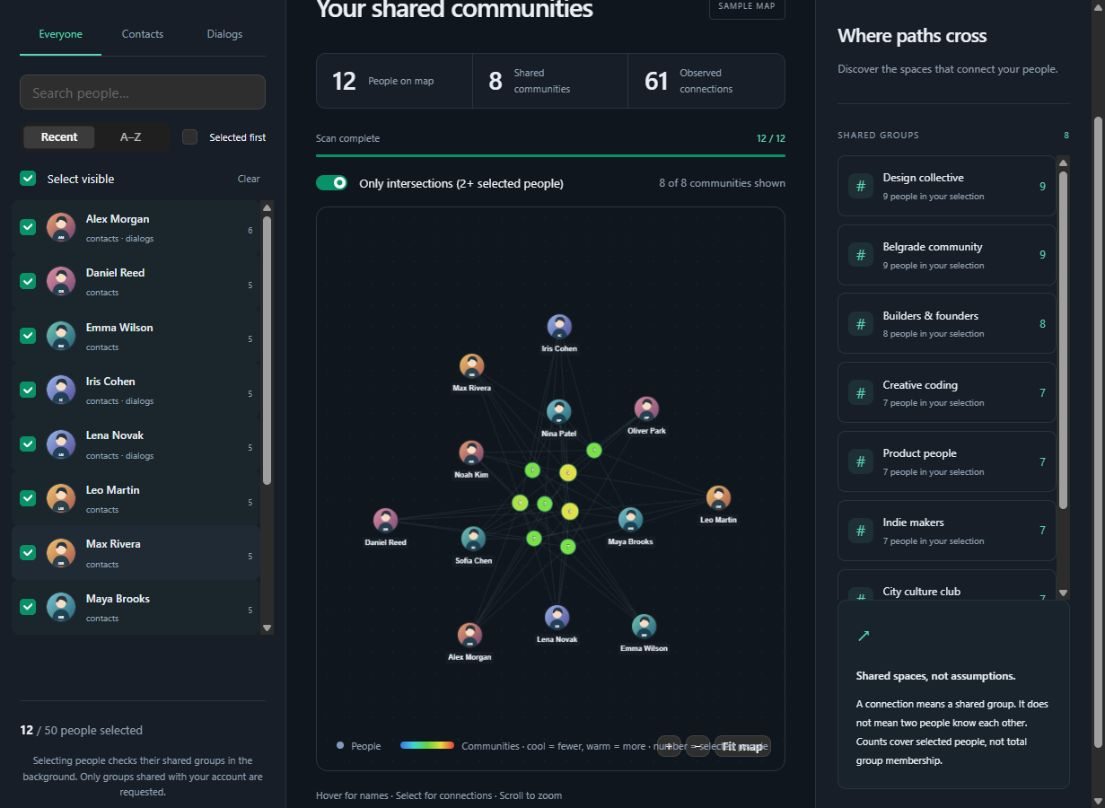
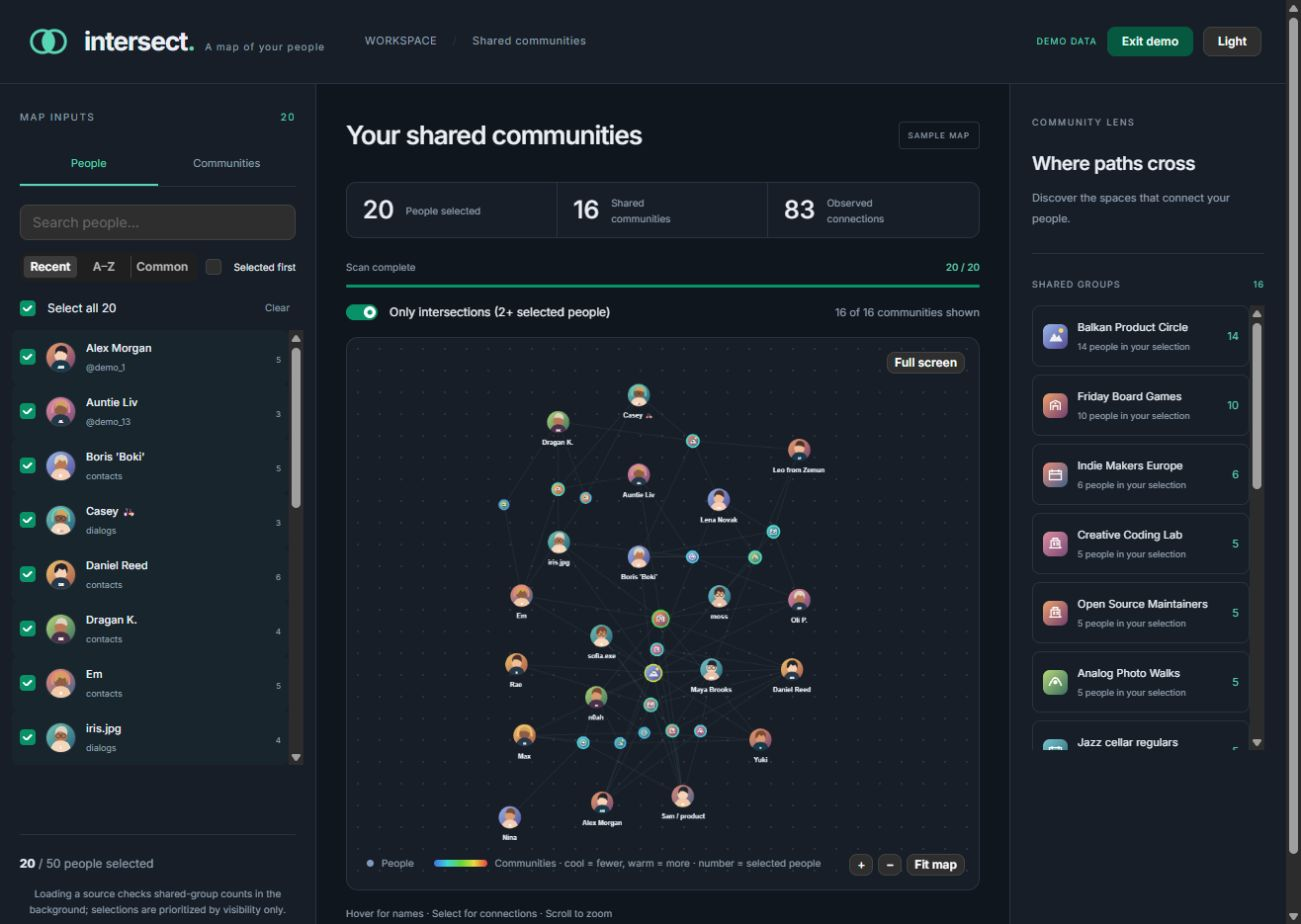
docs: refresh README screenshots

diff --git a/README.md b/README.md
@@ -21,11 +21,11 @@ clearly distinguished from confirmed results.
 Explore the synthetic demo without connecting a Telegram account. Switch between selecting people
 and communities, inspect their overlaps, and focus any node to reveal its observed connections.
 
-![Dark demo overview showing selected contacts and their shared-community graph](screenshots/demo-overview.png)
+![Dark demo overview showing selected people and their shared-community graph](screenshots/demo-overview.png)
 
 Select a community to focus its graph connections and see every selected person observed in it.
 
-![Light demo view focused on the Design collective community](screenshots/community-detail.png)
+![Dark demo view focused on the Balkan Product Circle community](screenshots/community-detail.png)
 
 ## Features
 
